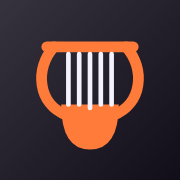
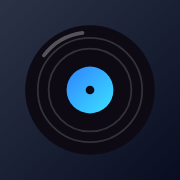
Add files via upload

Changed region(s): [[0.1389, 0.1389, 0.8056, 0.8333]]

diff --git a/index.html b/index.html
@@ -213,6 +213,7 @@ section{margin-bottom:30px}
 .mini-prog i{display:block;height:100%;width:0;background:var(--accent)}
 #bar.idle .bar-info{cursor:default}
 
+input#seek,input#npSeek{touch-action:none}
 input[type=range]{-webkit-appearance:none;appearance:none;height:18px;background:transparent;margin:0;cursor:pointer;--p:0%;width:100%;min-width:0}
 input[type=range]::-webkit-slider-runnable-track{height:4px;border-radius:2px;background:linear-gradient(to right,var(--fg) var(--p),var(--line) var(--p))}
 input[type=range]::-moz-range-track{height:4px;border-radius:2px;background:var(--line)}
@@ -588,8 +589,12 @@ body.is-playing .aur{opacity:1}
 @keyframes aurC{from{transform:translateX(160%);opacity:.5}50%{opacity:.2}to{transform:translateX(20%);opacity:.8}}
 @keyframes aurD{from{opacity:.2}to{opacity:.7}}
 #bar{isolation:isolate}
-#np .aur{--ab:70px;position:fixed;background:transparent;mix-blend-mode:screen;opacity:0}
-body.is-playing #np .aur{opacity:.55}
+#np .aur{--ab:60px;position:fixed;background:transparent;mix-blend-mode:screen;opacity:0;z-index:-1}
+body.is-playing #np .aur{opacity:1}
+#np .aur i{top:-30%;bottom:-30%}
+#np .aur i:nth-child(4){top:55%;bottom:-70%}
+#np #npBg{filter:blur(64px) saturate(1.4) brightness(.42)}
+#np::after{content:'';position:absolute;inset:0;z-index:-1;pointer-events:none;background:linear-gradient(#0000 55%,#0008)}
 @media (prefers-reduced-motion:reduce){.aur i{animation:none}}
 body:not(.is-playing) .aur i{animation-play-state:paused}
 </style>
@@ -695,7 +700,7 @@ body:not(.is-playing) .aur i{animation-play-state:paused}
 <script>
 (()=>{
 'use strict';
-const APP_VERSION='1.9.0';
+const APP_VERSION='1.9.4';
 const $=s=>document.querySelector(s), $$=s=>[...document.querySelectorAll(s)];
 const esc=s=>String(s).replace(/[&<>"']/g,c=>({'&':'&amp;','<':'&lt;','>':'&gt;','"':'&quot;',"'":'&#39;'}[c]));
 const uid=()=>Date.now().toString(36)+Math.random().toString(36).slice(2,8);
@@ -1163,6 +1168,7 @@ const cssVar=n=>{try{return hex6(getComputedStyle(document.documentElement).getP
 const getPref=(k,d)=>{try{return localStorage.getItem(k)||d;}catch(_){return d;}};
 const setPref=(k,v)=>{try{localStorage.setItem(k,v);}catch(_){}};
 function iconPalette(id){
+  if(id==='blue')return {bg:'#0a1128',a:'#2f86ff',f:'#d6e8ff',g:'#3be0ff'};
   if(id&&id!=='theme'){const th=THEMES.find(t=>t.id===id);if(th)return {bg:th.sw[0],a:th.sw[1],f:th.sw[2],g:th.g||th.sw[1]};}
   const a=cssVar('--accent')||'#ff7b3a';
   return {bg:cssVar('--bg')||'#15121f',a,f:cssVar('--fg')||'#f4f0fc',g:cssVar('--accent2')||a};
@@ -1198,7 +1204,7 @@ function drawIcon(shape,pal,S,look){
     circ(50,50,36);g.fillStyle='#0d0a14';g.fill();
     g.strokeStyle='rgba(255,255,255,.16)';g.lineWidth=1*u;
     [29,23].forEach(r=>{circ(50,50,r);g.stroke();});
-    circ(50,50,12);g.fillStyle=P.a;g.fill();
+    {const lg2=g.createLinearGradient(38*u,38*u,62*u,62*u);lg2.addColorStop(0,P.a);lg2.addColorStop(1,pal.g||P.a);circ(50,50,13);g.fillStyle=lg2;g.fill();}
     circ(50,50,2.4);g.fillStyle='#0d0a14';g.fill();
     g.strokeStyle='rgba(255,255,255,.3)';g.lineWidth=2*u;g.beginPath();g.arc(50*u,50*u,32*u,-2.5,-1.7);g.stroke();
   }else if(shape==='bars'){
@@ -1250,14 +1256,14 @@ function drawIcon(shape,pal,S,look){
 /* Android and desktop Chrome/Edge: hand the chosen icon to the service worker, which serves it as the app's installed icon */
 function pushIcons(){
   try{
-    const sh=getPref('offbeat-icon','lyre'),pal=iconPalette(getPref('offbeat-iconcolor','theme')),lk=getPref('offbeat-iconlook','dark');
+    const sh=getPref('offbeat-icon','disc'),pal=iconPalette(getPref('offbeat-iconcolor','blue')),lk=getPref('offbeat-iconlook','dark');
     const msg={type:'SET_ICONS',icons:{'icon-192.png':drawIcon(sh,pal,192,lk),'icon-512.png':drawIcon(sh,pal,512,lk),'apple-touch-icon.png':drawIcon(sh,pal,180,lk)}};
     navigator.serviceWorker&&navigator.serviceWorker.ready.then(r=>{const w=navigator.serviceWorker.controller||r.active;if(w)w.postMessage(msg);});
   }catch(e){}
 }
 function applyIcon(){
   try{
-    const url=drawIcon(getPref('offbeat-icon','lyre'),iconPalette(getPref('offbeat-iconcolor','theme')),180,getPref('offbeat-iconlook','dark'));
+    const url=drawIcon(getPref('offbeat-icon','disc'),iconPalette(getPref('offbeat-iconcolor','blue')),180,getPref('offbeat-iconlook','dark'));
     const l=document.querySelector('link[rel=apple-touch-icon]');
     if(l){l.href=url;l.setAttribute('sizes','180x180');}
     const f=document.querySelector('link[rel=icon]');if(f)f.href=url;
@@ -1269,12 +1275,12 @@ function applyIcon(){
   }catch(e){}
 }
 function iconSection(){
-  const shape=getPref('offbeat-icon','lyre'),look=getPref('offbeat-iconlook','dark'),col=getPref('offbeat-iconcolor','theme'),pal=iconPalette(col);
+  const shape=getPref('offbeat-icon','disc'),look=getPref('offbeat-iconlook','dark'),col=getPref('offbeat-iconcolor','blue'),pal=iconPalette(col);
   return `<section>
   <p class="muted" style="max-width:62ch;margin:0 0 12px">Pick the icon before you add ORPHEUS to your Home Screen. iPhone reads the icon at that moment, so changing it later means removing the Home Screen icon and adding it again, which also erases the songs saved inside the app. <b>Android and Windows (Chrome or Edge):</b> just pick an icon here. The installed app's icon updates by itself within about a day, and sooner if you close and reopen the app.</p>
   <div class="looks" role="group" aria-label="Icon look">${ICON_LOOKS.map(l=>`<button class="chip${look===l.id?' on':''}" data-act="iconLook" data-id="${l.id}" aria-pressed="${look===l.id}">${l.name}</button>`).join('')}</div>
   <div class="icons">${ICON_SHAPES.map(s=>`<button class="icon-opt${shape===s.id?' on':''}" data-act="iconShape" data-id="${s.id}" aria-pressed="${shape===s.id}"><img src="${drawIcon(s.id,pal,120,look)}" alt=""><span>${s.name}</span></button>`).join('')}</div>
-  <div class="swatches" role="group" aria-label="Icon color"><button class="chip${col==='theme'?' on':''}" data-act="iconColor" data-id="theme">Match theme</button>${THEMES.filter(t=>t.id).map(t=>`<button class="swatch${col===t.id?' on':''}" data-act="iconColor" data-id="${t.id}" aria-label="${t.name}" aria-pressed="${col===t.id}" style="background:linear-gradient(135deg,${t.sw[1]} 50%,${t.g||t.sw[1]} 50%)"></button>`).join('')}</div></section>`;
+  <div class="swatches" role="group" aria-label="Icon color"><button class="chip${col==='blue'?' on':''}" data-act="iconColor" data-id="blue">Blue</button><button class="chip${col==='theme'?' on':''}" data-act="iconColor" data-id="theme">Match theme</button>${THEMES.filter(t=>t.id).map(t=>`<button class="swatch${col===t.id?' on':''}" data-act="iconColor" data-id="${t.id}" aria-label="${t.name}" aria-pressed="${col===t.id}" style="background:linear-gradient(135deg,${t.sw[1]} 50%,${t.g||t.sw[1]} 50%)"></button>`).join('')}</div></section>`;
 }
 const accentNow=()=>{let v='';try{v=getComputedStyle(document.documentElement).getPropertyValue('--accent').trim();}catch(_){}return /^#[0-9a-f]{6}$/i.test(v)?v:'#ff7b3a';};
 const accent2Now=()=>{let v='';try{v=getComputedStyle(document.documentElement).getPropertyValue('--accent2').trim();}catch(_){}return /^#[0-9a-f]{6}$/i.test(v)?v:'#ff4f7b';};
@@ -1318,7 +1324,7 @@ async function purgeDiscover(){
   const ids=new Set(tracks.filter(t=>t.source).map(t=>t.id));
   if(!ids.size)return;
   const playing=curId&&ids.has(curId);
-  if(playing){playTok++;audio.pause();audio.removeAttribute('src');curId=null;prog();}
+  if(playing){playTok++;pauseUser();audio.removeAttribute('src');curId=null;prog();}
   queue=queue.filter(x=>!ids.has(x));if(origQueue)origQueue=origQueue.filter(x=>!ids.has(x));
   qi=curId?queue.indexOf(curId):-1;
   for(const id of ids){
@@ -1395,7 +1401,7 @@ function unlock(){
   if(unlocked)return;unlocked=true;
   if(audio.src)return;
   audio.src=SILENT;
-  audio.play().then(()=>{if(audio.src===SILENT)audio.pause();}).catch(()=>{});
+  audio.play().then(()=>{if(audio.src===SILENT)pauseUser();}).catch(()=>{});
 }
 function shuffleArr(a){for(let i=a.length-1;i>0;i--){const j=Math.floor(Math.random()*(i+1));[a[i],a[j]]=[a[j],a[i]];}return a;}
 /* mode 1 = plain shuffle, mode 2 = smart shuffle (every artist's songs are spread evenly, so one artist never plays back to back) */
@@ -1517,7 +1523,7 @@ function next(auto){
     if(repeat===1||!auto){
       if(shuffleMode&&origQueue)queue=mixIds(origQueue,shuffleMode,queue[queue.length-1]);
       qi=0;
-    }else{qi=queue.length-1;hist.pop();audio.pause();audio.currentTime=0;return;}
+    }else{qi=queue.length-1;hist.pop();pauseUser();audio.currentTime=0;return;}
   }
   startCurrent();
 }
@@ -1530,7 +1536,7 @@ function prev(){
 }
 function togglePlay(){
   if(!curId){const ids=sortedAll().map(t=>t.id);if(ids.length)playList(ids,0);else toast('Add some music first');return;}
-  if(audio.paused)audio.play().catch(()=>{});else audio.pause();
+  if(audio.paused)audio.play().catch(()=>{});else pauseUser();
 }
 function syncModes(){
   $$('[data-ctl=shuf]').forEach(b=>{b.classList.toggle('on',shuffleMode>0);if(shuffleMode===2)b.setAttribute('data-rep','S');else b.removeAttribute('data-rep');});
@@ -1662,6 +1668,21 @@ function ensureGain(){
     return true;
   }catch(e){actx=null;gainNode=null;return false;}
 }
+
+/* Keep playing while other apps are open: if the phone pauses the music on its own (you did not tap pause), start it again, a few tries at most */
+let upause=0,resumeTries=0,resumeAt=0;
+function pauseUser(){upause=Date.now();audio.pause();}
+audio.addEventListener('pause',()=>{
+  if(Date.now()-upause<2000||!curId||audio.ended)return;
+  setTimeout(()=>{
+    if(!audio.paused||audio.ended||!curId||Date.now()-upause<2000)return;
+    if(Date.now()-resumeAt>15000)resumeTries=0;
+    if(resumeTries>=3)return;
+    resumeTries++;resumeAt=Date.now();
+    audio.play().catch(()=>{});
+  },350);
+});
+audio.addEventListener('playing',()=>{if(Date.now()-resumeAt>15000)resumeTries=0;});
 const keepCtx=()=>{if(actx&&actx.state!=='running')actx.resume().catch(()=>{});};
 audio.addEventListener('playing',keepCtx);
 document.addEventListener('visibilitychange',keepCtx);
@@ -1684,6 +1705,16 @@ function setVol(v,touched){
   const on=()=>el.classList.add('hold'),off=()=>el.classList.remove('hold');
   ['pointerdown','touchstart','mousedown'].forEach(ev=>el.addEventListener(ev,on,{passive:true}));
   ['pointerup','pointercancel','touchend','touchcancel','mouseup','change'].forEach(ev=>el.addEventListener(ev,off,{passive:true}));
+});
+
+/* Progress bar: tap or drag anywhere on the bar to jump there (not only on the little handle) */
+['#seek','#npSeek'].forEach(q=>{const el=$(q);if(!el)return;
+  let drag=false;
+  const at=e=>{const r=el.getBoundingClientRect();const f=Math.max(0,Math.min(1,(e.clientX-r.left)/Math.max(1,r.width)));el.value=Math.round(f*1000);el.style.setProperty('--p',(f*100)+'%');seekTo(f*1000);};
+  el.addEventListener('pointerdown',e=>{if(e.button>0)return;drag=true;try{el.setPointerCapture(e.pointerId);}catch(_){}e.preventDefault();at(e);});
+  el.addEventListener('pointermove',e=>{if(drag){e.preventDefault();at(e);}});
+  ['pointerup','pointercancel','lostpointercapture'].forEach(ev=>el.addEventListener(ev,()=>{drag=false;}));
+  el.addEventListener('keydown',()=>{});
 });
 function ctl(a,el){
   switch(a){
@@ -1712,7 +1743,7 @@ async function deleteTrack(id,quiet){
   const t=byId(id);if(!t)return;
   if(!quiet)addTomb(id);
   if(origQueue)origQueue=origQueue.filter(x=>x!==id);
-  if(curId===id){playTok++;audio.pause();audio.removeAttribute('src');curId=null;queue=queue.filter(x=>x!==id);qi=-1;prog();}
+  if(curId===id){playTok++;pauseUser();audio.removeAttribute('src');curId=null;queue=queue.filter(x=>x!==id);qi=-1;prog();}
   else{const cur=queue[qi];queue=queue.filter(x=>x!==id);qi=queue.indexOf(cur);}
   tracks=tracks.filter(x=>x.id!==id);
   const au=artUrls.get(id);if(au){URL.revokeObjectURL(au);artUrls.delete(id);}
@@ -1949,7 +1980,7 @@ function bindLock(){
   if(!('mediaSession' in navigator))return;
   const h=(n,f)=>{try{navigator.mediaSession.setActionHandler(n,f);}catch(_){}};
   h('play',()=>{audio.play().catch(()=>{});});
-  h('pause',()=>{audio.pause();});
+  h('pause',()=>{pauseUser();});
   h('previoustrack',()=>{prev();});
   h('nexttrack',()=>{next(false);});
   h('seekbackward',null);h('seekforward',null);h('stop',null);
@@ -1977,7 +2008,8 @@ async function checkUpdate(){
   const st=$('#updStat');if(st)st.textContent='Checking…';
   let msg='';
   try{
-    if(!swReg)msg='Updates work once ORPHEUS is opened from its web address.';
+    if(!swReg&&'serviceWorker' in navigator&&/^https?:$/.test(location.protocol)){try{swReg=await navigator.serviceWorker.getRegistration()||await navigator.serviceWorker.register('sw.js');}catch(e){}}
+    if(!swReg)msg=/^https?:$/.test(location.protocol)?'This browser would not start the update system. Close the app fully, reopen it while online, and try again.':'This copy was opened from a file. Open ORPHEUS from its web address to get updates.';
     else{
       await swReg.update();
       await new Promise(r=>setTimeout(r,1500));

diff --git a/sw.js b/sw.js
@@ -1,7 +1,7 @@
 /* ORPHEUS service worker.
    The app opens from the saved copy, so it starts instantly and works with no connection.
    A new version downloads in the background and waits. Nothing changes until you tap Update. */
-const VERSION = '1.9.0';
+const VERSION = '1.9.4';
 const CACHE = 'orpheus-' + VERSION;
 const ICONS = 'orpheus-icons'; // the icon you picked in Settings; survives updates
 const FILES = ['./', 'index.html', 'covers.js', 'manifest.webmanifest', 'icon-192.png', 'icon-512.png', 'apple-touch-icon.png'];
